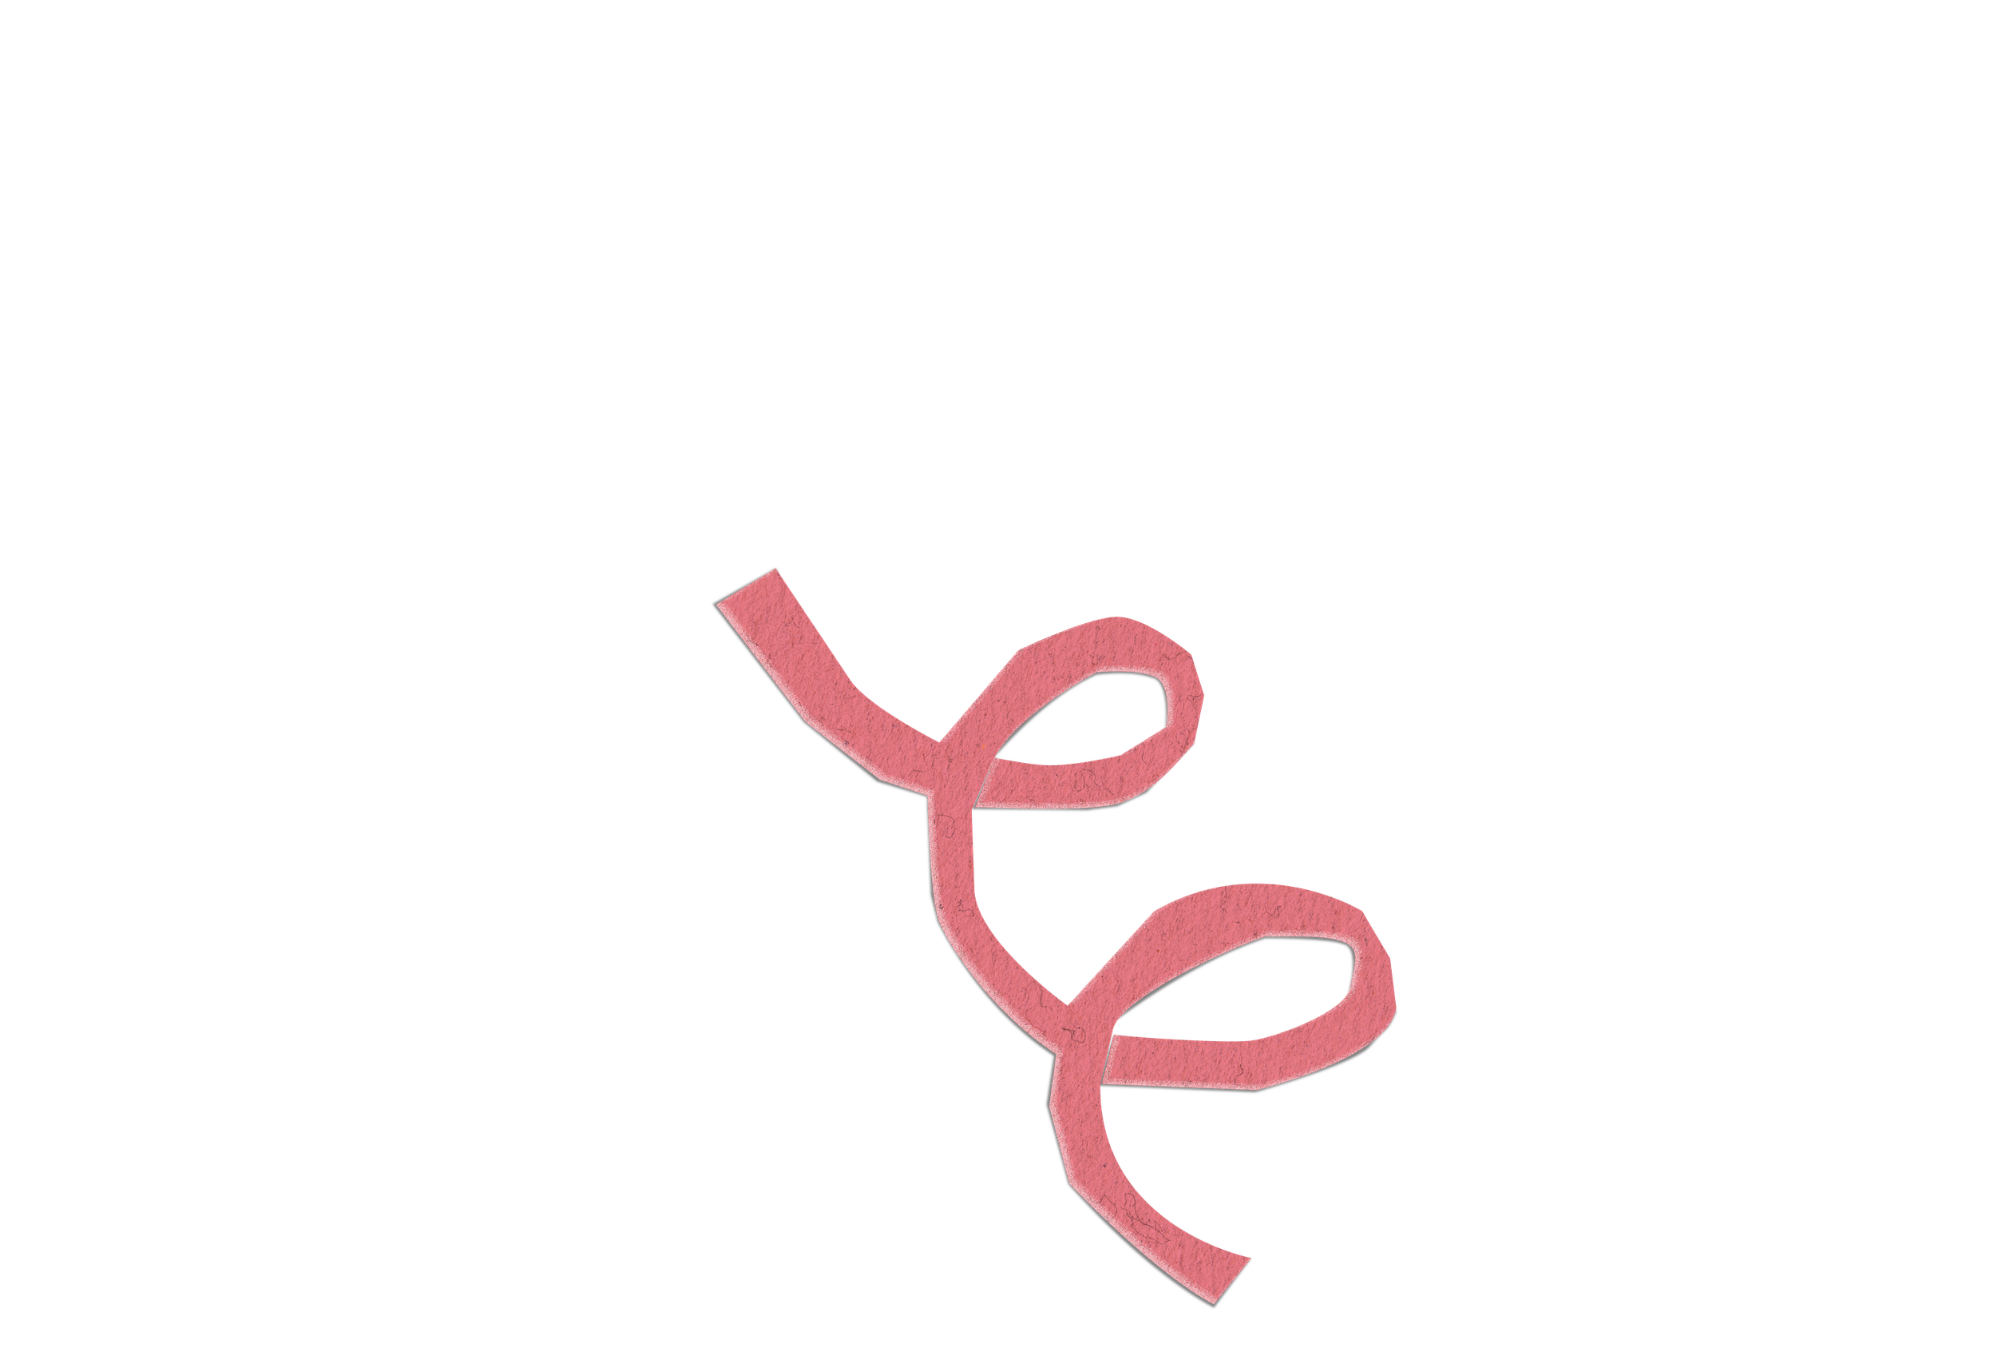
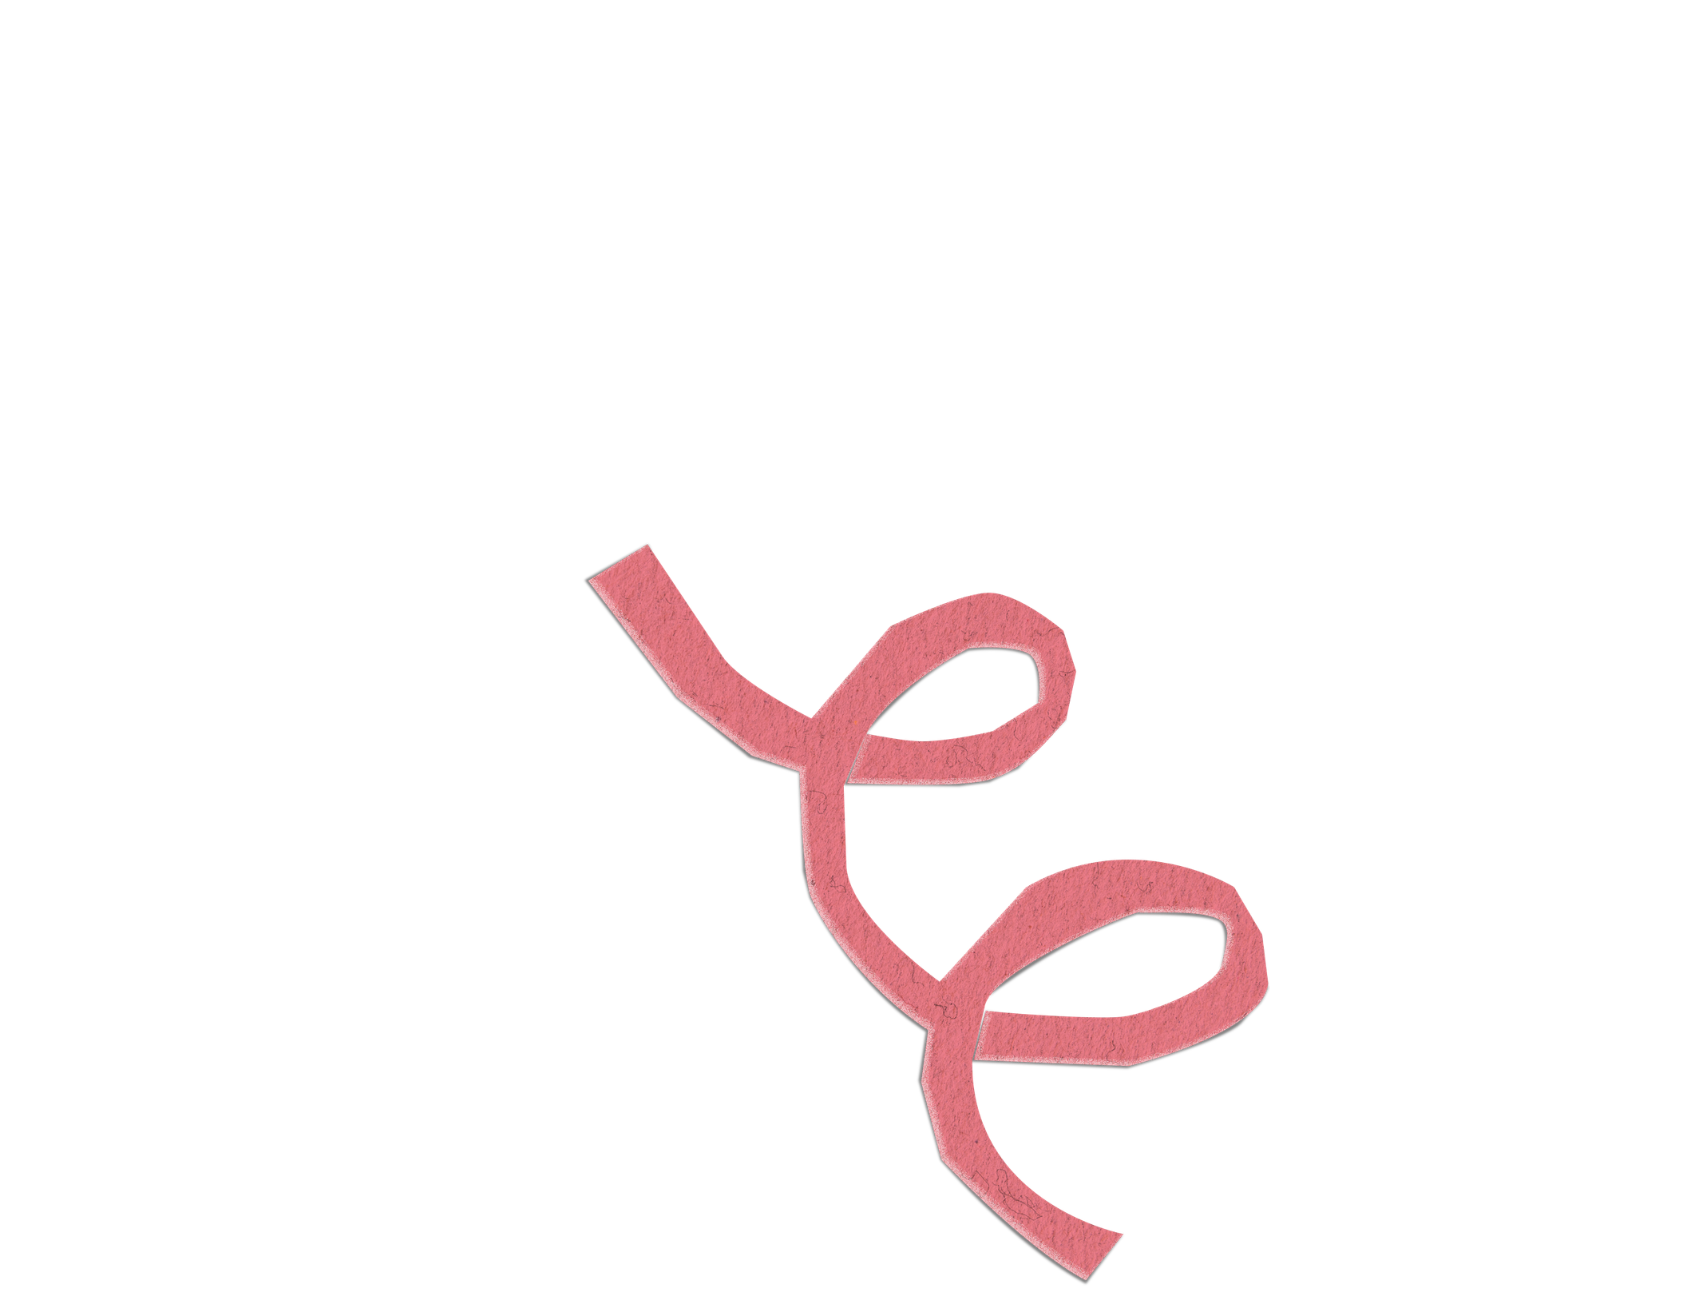
finished portfolio

Changed region(s): [[0.3383, 0.4025, 0.7688, 0.9907]]

diff --git a/style.css b/style.css
@@ -82,8 +82,8 @@ img {
 .paper-ribbon img {
     width:65vw;
     position: absolute;
-    top:-35%;
-    right:-5%;
+    top:-40%;
+    right:1%;
     filter: drop-shadow(2px 1.5px 1.5px black);
     animation: rotating 3s ease-in-out infinite;
 }
@@ -166,7 +166,7 @@ h3 {
 
 .container {
     background-color: #FFFFF4;
-    opacity: 80%;
+    opacity: 70%;
     border-radius: 2em;
     padding: 1em;
     filter: drop-shadow(2px 3px 5px black);
@@ -193,8 +193,8 @@ h3 {
 
 .projects h3 {
     text-align: center;
-    font-size: 1.5em;
-    filter: drop-shadow(0px 0px .25px black);
+    font-size: 1.6em;
+    filter: drop-shadow(0px 0px 0px black);
 }
 
 .projects img {
@@ -215,6 +215,11 @@ h3 {
     top: 227%;
     position: absolute;
 }
+
+a {
+    text-decoration: none;
+}
+
 .projects-container {
     margin: 0;
     border-radius: 2em;
@@ -225,4 +230,14 @@ h3 {
     width: 75vw;
     left: 13%;
     filter: drop-shadow(1px 1px 1px black);
+}
+
+.projects img:hover {
+    transition: 100ms ease;
+    scale: 1.03;
+}
+
+img:not(:hover) {
+    transition: 100ms ease;
+    scale: 1;
 }

diff --git a/index.html b/index.html
@@ -1,8 +1,9 @@
 <!DOCTYPE html>
 <html>
     <head>
-        <title>Home | Zoe Bisset</title>
+        <title>Portfolio | Zoe Bisset</title>
         <link rel="stylesheet" href="style.css">
+        <link rel="icon" type="image/png" href="assets/ribbon-yellow2.png">
     </head>
     <body>
         <div class="background-image">
@@ -36,14 +37,14 @@
             <div class="about-me-text">
                 <h2> who the actual heck am i?</h2>
                 <div class="container">
-                    <h3 style="font-size: 3rem;">howdy, im zoe, and im a 16 year old comp sci geek from florida. </h3>
+                    <h3 style="font-size: 3rem;">im zoe, and im a 16 year old comp sci geek from florida. </h3>
                     <ul>
-                    <li><h3>mbti type: isfp</h3></li>
+                    <li><h3><br> mbti type: isfp</h3></li>
                     <li><h3>tomodachi life personality: achiever</h3></li>
                     <li><h3>fav software languages: java, html, css, python</h3></li>
                     <li><h3>hobbies: playing guitar, playing the sims, napping</h3></li>
                     <li><h3>fav music artist rn: twenty one pilots</h3></li>
-                    <li><h3>where you have prob seen me in hackclub: stardance, macondo, sleepover, campfire</h3></li>
+                    <li><h3><br><br>where you have prob seen me in hackclub: stardance, macondo, sleepover, campfire</h3></li>
                     </ul>
                 </div>
             </div>
@@ -72,7 +73,7 @@
 
                 <a href="https://zoebiscuit.github.io/SimPhotoDump/">
                 <div class="project-card">
-                    <h3><u>sims photo dump</u> <br> a website using memories of my sims to tell a story</h3>
+                    <h3><u>my sims photo dump</u> <br> a website using memories of my sims to tell a story</h3>
                     <img src="project_images/simaddicted.png">
                 </div>
                 </a>